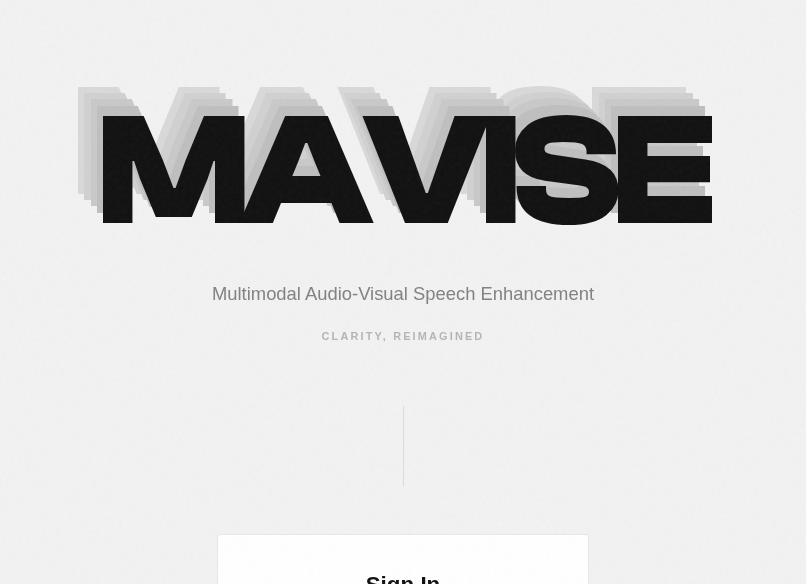
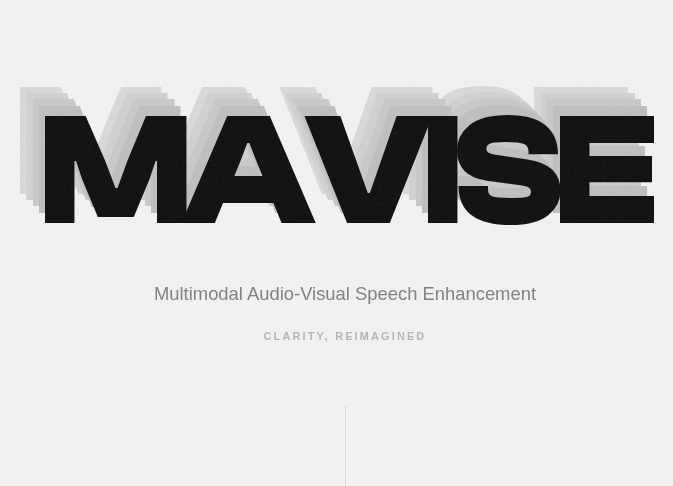
Fix MAVISE thumbnail crop, mention award, pin hamburger to the right
- MAVISE thumbnail: re-cropped to precisely match the .project-card__gallery
  box's aspect ratio so object-fit:cover doesn't pull in a sliver of the
  Sign In card below the wordmark
- MAVISE description now says "award-winning final-year project"
- Mobile nav hamburger was landing short of the right edge (3 flex
  children with justify-content:space-between puts the middle one in the
  middle, not flush right, once .nav__right's menu is hidden) — margin-left:
  auto on .nav__toggle at mobile widths pins it flush right instead

diff --git a/index.html b/index.html
@@ -204,7 +204,7 @@
                   </ul>
                 </div>
                 <p>
-                  MAVISE was our final-year project at COMSATS. I built a CNN plus BiLSTM
+                  MAVISE was our award-winning final-year project at COMSATS. I built a CNN plus BiLSTM
                   plus cross-attention Transformer model with a noise-augmentation pipeline,
                   pushing STOI from 0.35 to 0.80 and PESQ from 1.1 to 2.6 on our FYP
                   benchmark. MediaPipe handled syncing the lip-region video with the audio.

diff --git a/css/styles.css b/css/styles.css
@@ -254,6 +254,7 @@ ul {
 @media (max-width: 640px) {
   .nav__toggle {
     display: block;
+    margin-left: auto;
   }
 
   .nav__menu {
